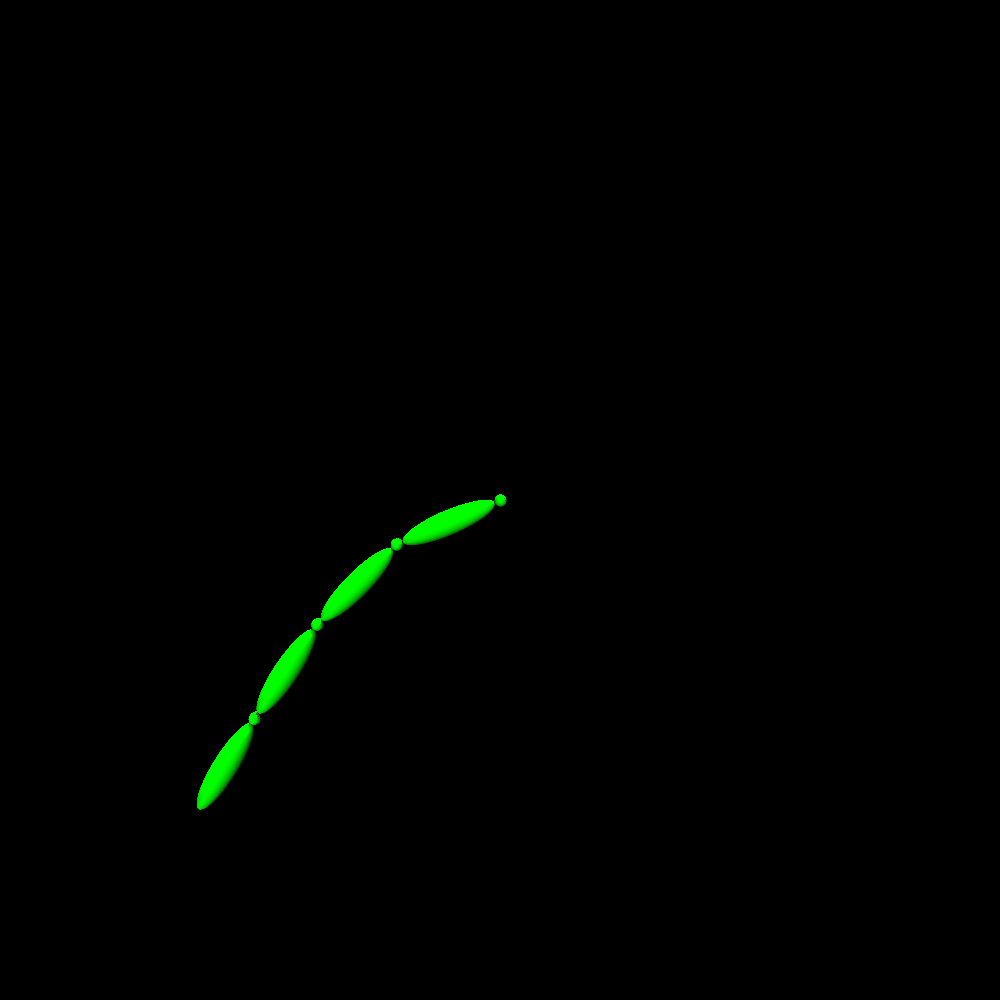
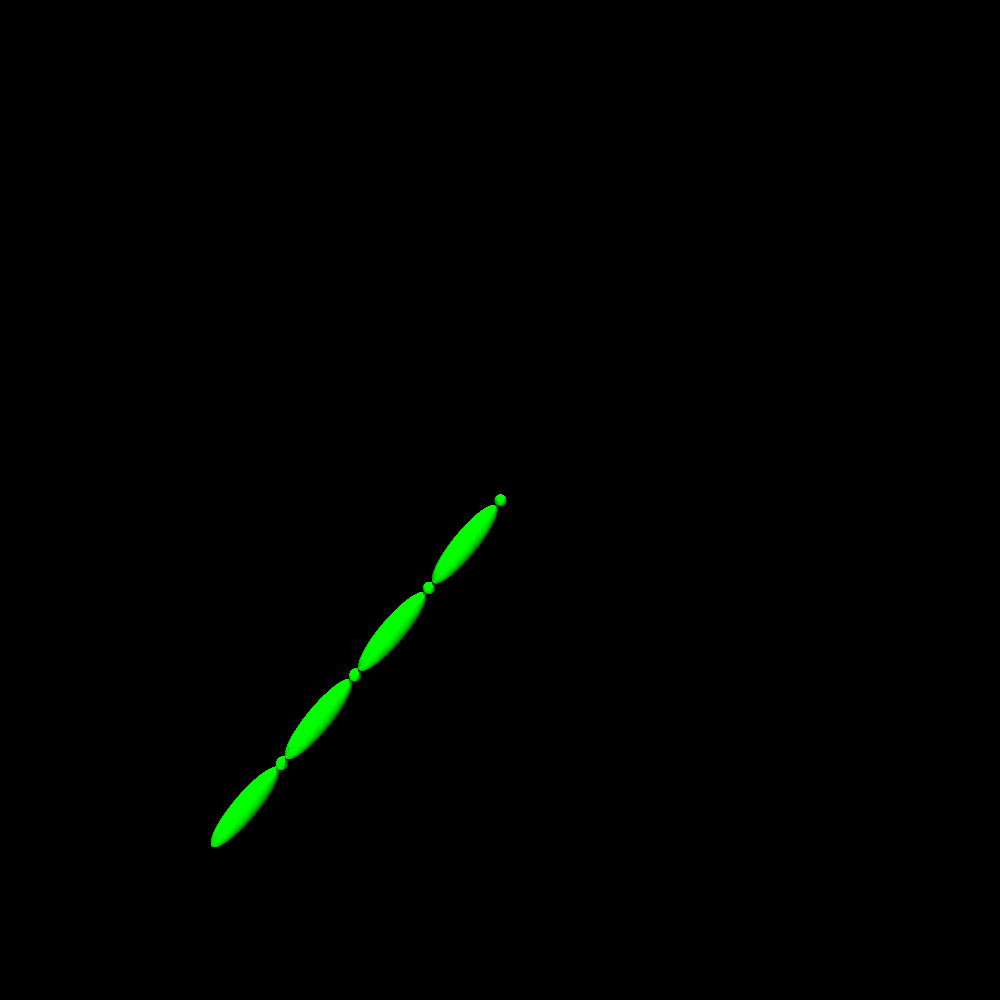
increased lambda, commented out some print statements

Changed region(s): [[0.186, 0.496, 0.496, 0.837]]

diff --git a/A4/Transformation.cpp b/A4/Transformation.cpp
@@ -50,9 +50,9 @@ Transformation::Transformation(float f1, float f2, float f3, char type){
 		this->matrix[15] = 1.0;
 	} else if (type == 'r'){
 		Vector3 rhat = Vector3(f1, f2, f3);
-		std::cout << "f1 = " << f1 << "\n";
-		std::cout << "f2 = " << f2 << "\n";
-		std::cout << "f3 = " << f3 << "\n";
+		// std::cout << "f1 = " << f1 << "\n";
+		// std::cout << "f2 = " << f2 << "\n";
+		// std::cout << "f3 = " << f3 << "\n";
 		float theta = rhat.getMagnitude();
 		if (theta == 0.0){
 			//TO DO
@@ -82,15 +82,15 @@ Transformation::Transformation(float f1, float f2, float f3, char type){
 		if ((cosTheta > 0.0 && cosTheta < thetaEpisilon) || (cosTheta < 0.0 || cosTheta > -thetaEpisilon)){
 			cosTheta = 0.0;
 		}*/
-		std::cout << "theta = " << theta << "\n";
+		// std::cout << "theta = " << theta << "\n";
 		rhat.normalize();
 		float rhatMatr[16] = {rhat.getX()*rhat.getX(), rhat.getX()*rhat.getY(), 
 			rhat.getX()*rhat.getZ(), 0.0, rhat.getX()*rhat.getY(), 
 			rhat.getY()*rhat.getY(), rhat.getY()*rhat.getZ(), 0.0, 
 			rhat.getX()*rhat.getZ(), rhat.getY()*rhat.getZ(), 
 			rhat.getZ()*rhat.getZ(), 0.0, 0.0, 0.0, 0.0, 0.0};
-		cout << "rhat getX^2 " << rhat.getX()*rhat.getX() << "\n";
-		cout << "rhatMatr0 " << rhatMatr[0] << "\n";
+		// cout << "rhat getX^2 " << rhat.getX()*rhat.getX() << "\n";
+		// cout << "rhatMatr0 " << rhatMatr[0] << "\n";
 
 		float rCrossMatr[16] = {0, -rhat.getZ(), rhat.getY(), 0.0, rhat.getZ(), 
 			0.0, -rhat.getX(), 0.0, -rhat.getY(), rhat.getX(), 0.0, 0.0, 

diff --git a/A4/kinematics_solver.cpp b/A4/kinematics_solver.cpp
@@ -660,9 +660,9 @@ void calculateAngles(Point target, MatrixXd j) {
 
   // 2. Find the system end effector pe. Check if ||pe−g||<ϵ. If yes, we are done. Else continue to step 3.
   int iter = 0;
-  int iterMax = 1000;
+  int iterMax = 5000;
 
-  float lambda = 0.01;
+  float lambda = 0.001;
 
   Point endEffector;
   while(iter < iterMax){
